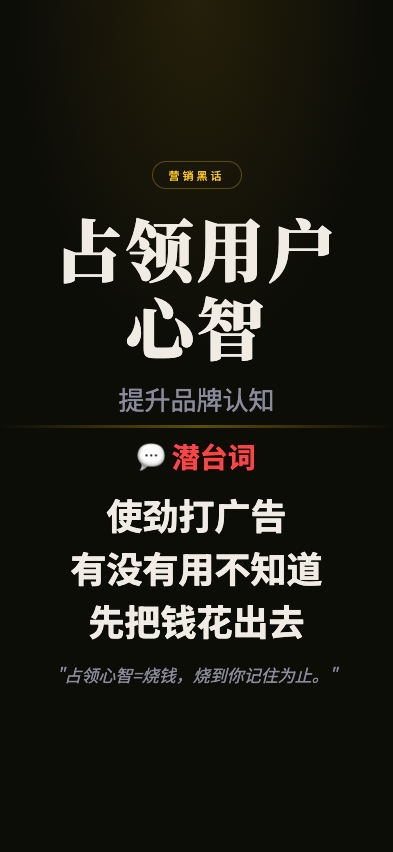
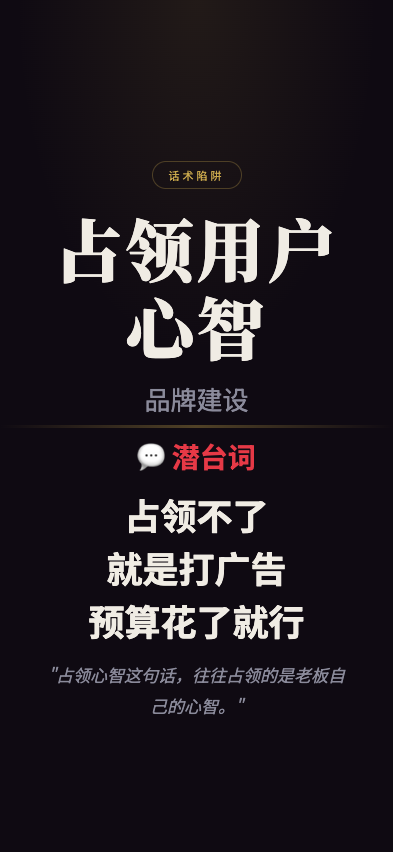
feat: 职场生存法则 screenshot - zhanlingyonghuxinzhi

diff --git a/wuliao-tools/tools/biz-speak/scenes/zhanlingyonghuxinzhi.html b/wuliao-tools/tools/biz-speak/scenes/zhanlingyonghuxinzhi.html
@@ -7,11 +7,11 @@
 <link href="https://fonts.googleapis.com/css2?family=Noto+Serif+SC:wght@400;700;900&family=Noto+Sans+SC:wght@300;400;700&display=swap" rel="stylesheet">
 <style>
   :root {
-    --bg: #0d0d08;
+    --bg: #0f0a12;
     --text: #f0ece4;
     --text-dim: #8a8a9a;
-    --gold: #f5c518;
-    --red: #ff4444;
+    --gold: #c9a84c;
+    --red: #e63946;
   }
   * { margin:0; padding:0; box-sizing:border-box; }
   html, body { width:100%; height:100%; overflow:hidden; }
@@ -24,11 +24,11 @@
   }
   body::before {
     content:''; position:absolute; top:0; left:0; right:0; height:45%;
-    background:radial-gradient(ellipse at 50% 0%, rgba(245,197,24,0.1) 0%, transparent 65%);
+    background:radial-gradient(ellipse at 50% 0%, rgba(201,168,76,0.1) 0%, transparent 65%);
     pointer-events:none; z-index:0;
   }
   .top { flex:1; display:flex; flex-direction:column; align-items:center; justify-content:flex-end; padding:4px 28px 8px; position:relative; z-index:1; }
-  .tag { font-size:11px; letter-spacing:3px; color:var(--gold); border:1px solid rgba(245,197,24,0.3); padding:5px 16px; border-radius:50px; margin-bottom:20px; }
+  .tag { font-size:11px; letter-spacing:3px; color:var(--gold); border:1px solid rgba(201,168,76,0.3); padding:5px 16px; border-radius:50px; margin-bottom:20px; }
   .main-title { font-family:'Noto Serif SC'; font-size:68px; font-weight:900; text-align:center; line-height:1.15; letter-spacing:3px; min-width:0; overflow-wrap:break-word; max-width:92%; }
   .sub-title { font-size:26px; color:var(--text-dim); text-align:center; margin-top:14px; }
   .divider { width:100%; height:3px; background:linear-gradient(90deg,transparent,var(--gold),transparent); opacity:0.35; flex-shrink:0; position:relative; z-index:1; }
@@ -41,19 +41,19 @@
 </head>
 <body>
   <div class="top">
-    <div class="tag">营销黑话</div>
+    <div class="tag">话术陷阱</div>
     <div class="main-title">占领用户心智</div>
-    <div class="sub-title">提升品牌认知</div>
+    <div class="sub-title">品牌建设</div>
   </div>
   <div class="divider"></div>
   <div class="bottom">
     <div class="truth-label">💬 潜台词</div>
     <div class="truth-lines">
-      <div class="truth-line">使劲打广告</div>
-      <div class="truth-line">有没有用不知道</div>
-      <div class="truth-line">先把钱花出去</div>
+      <div class="truth-line">占领不了</div>
+      <div class="truth-line">就是打广告</div>
+      <div class="truth-line">预算花了就行</div>
     </div>
-    <div class="quote">"占领心智=烧钱，烧到你记住为止。"</div>
+    <div class="quote">"占领心智这句话，往往占领的是老板自己的心智。"</div>
   </div>
 </body>
 </html>
